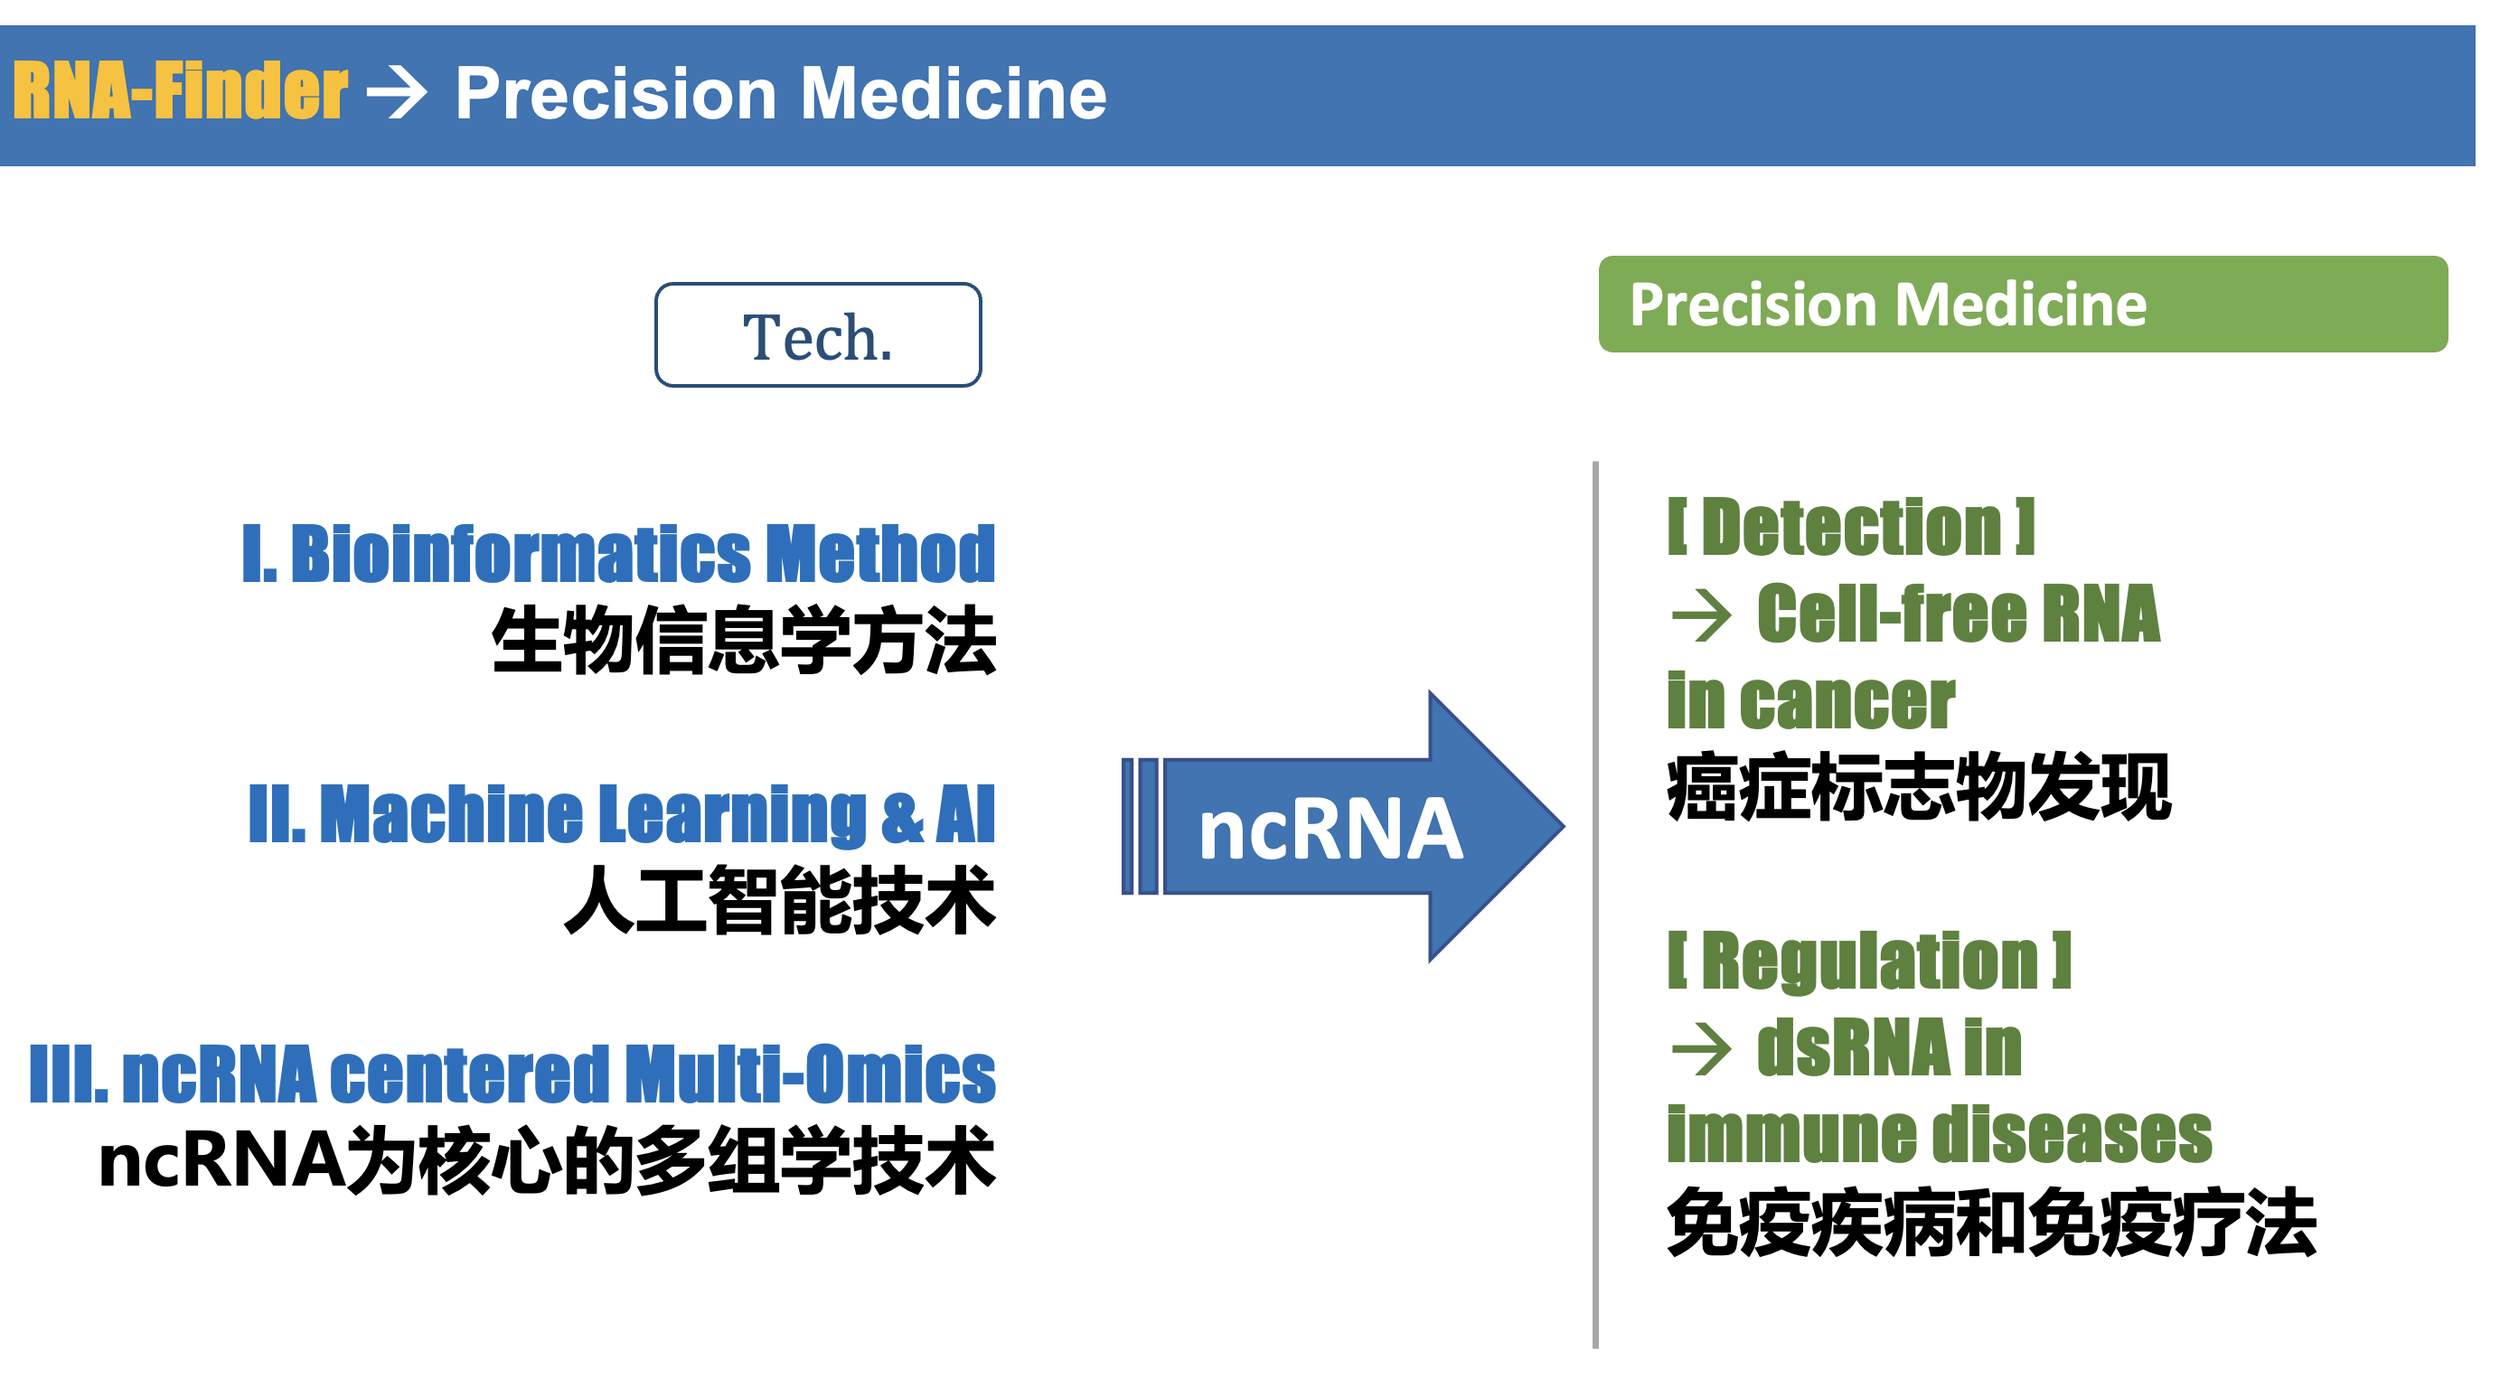
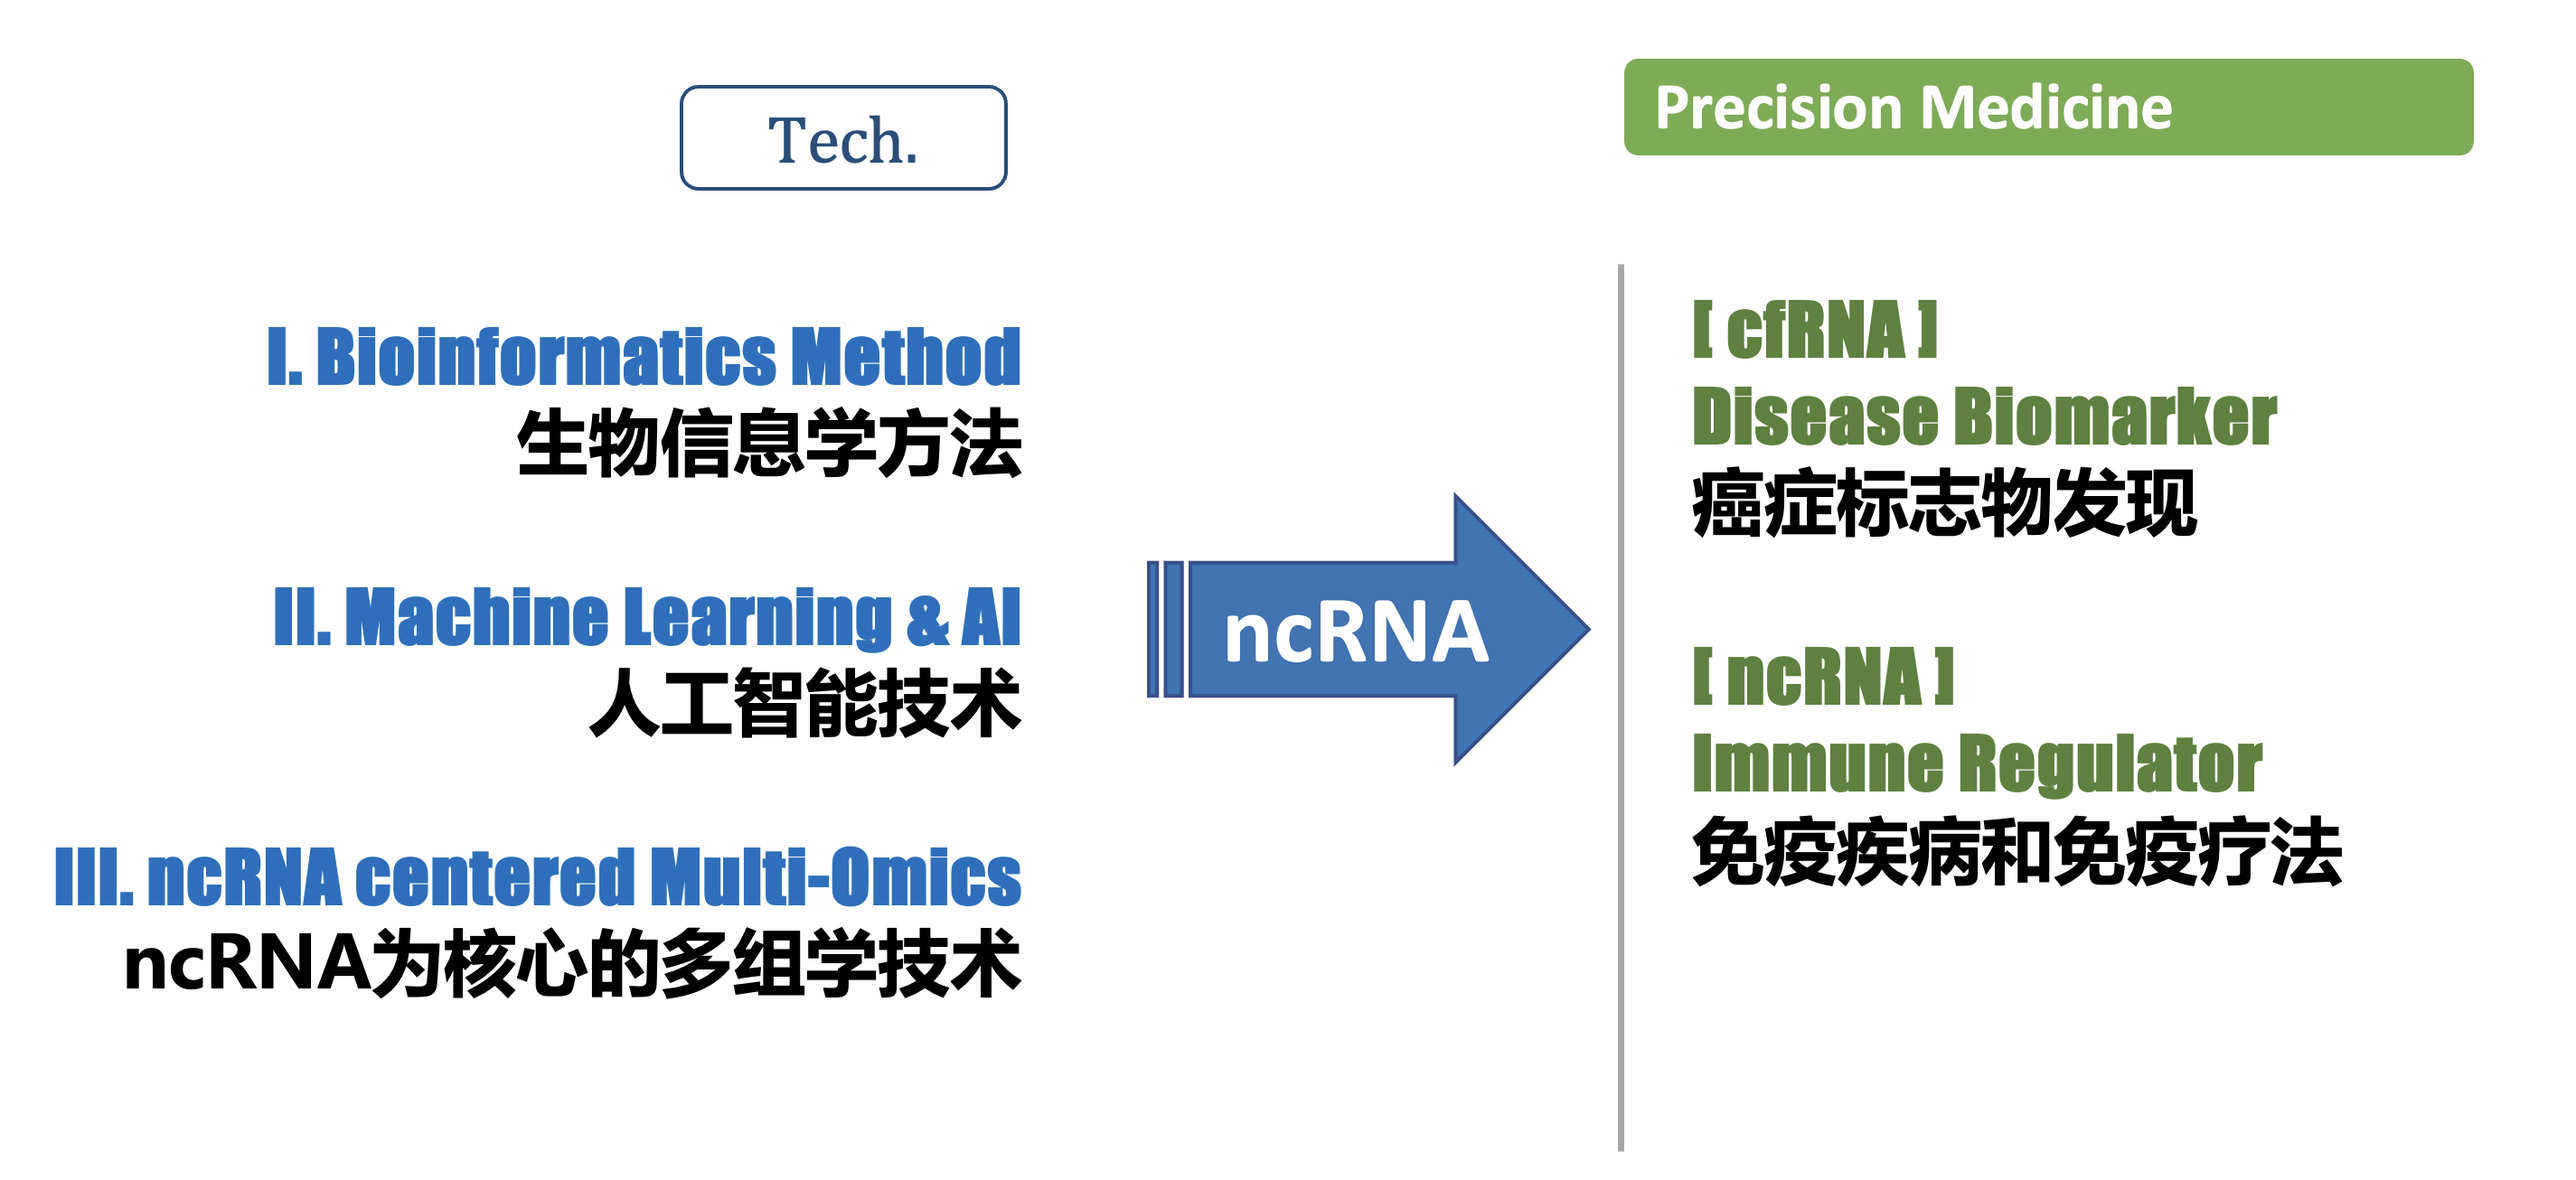
update home/projects

diff --git a/home/index.html b/home/index.html
@@ -157,8 +157,8 @@
                             
                             <ul class="list-unstyled text-right">
                                 <li><b style="color:#0093A8;">Precision Medicine</b></li>
-                                <li> * Cell-free RNA for disease diagnosis</li>
-                                <li> * Noncoding RNA in immune system</li>
+                                <li> * Cell-free RNA as disease biomarker</li>
+                                <li> * Noncoding RNA as immune regulator</li>
                                 <li> * Multi-modal data integration</li>                   
 
                             </ul>

diff --git a/projects/index.md b/projects/index.md
@@ -66,7 +66,7 @@ We apply the above methods to precision medicine, focusing on two types of disea
 
 
 
-#### A1. [cfRNA] Cell-free RNA (cfRNA) Study for Disease Diagnosis {#cfRNA}
+#### A1. [cfRNA] Cell-free RNA (cfRNA) as Disease Biomarker {#cfRNA}
 
 ***cell-free RNAs (cfRNAs).*** The cfRNA content in clinical plasma samples is very low and fragmented. Therefore, it is necessary to solve the problems of low signal-to-noise ratio and high cost of sequencing data. We apply technologies such as TSO, early barcoding, UMI, and CRISPR-Cas9 to develop novel cfRNA-seq technologies that reduce the cost of high-throughput sequencing, and improve the signal-to-noise ratio of sequencing data.
 
@@ -99,7 +99,7 @@ We apply the above methods to precision medicine, focusing on two types of disea
 </div>
 
 
-#### A2. [ncRNA] Noncoding RNA Study in Immune System {#ncRNA}
+#### A2. [ncRNA] Noncoding RNA as Immune Regulator {#ncRNA}
 
 ***Discoverying novel noncoding RNAs.*** With the advancement of sequencing technology, especially the development and maturity of sequencing technology at the single-cell and single-molecule level, we have the ability to discover new noncoding RNAs from more species, more tissues, and more cell types. For example, we can discover and study new noncoding RNAs under different environments and conditions from the metatranscriptome of diverse microbial communities. These studies will not only expand our understanding of the diversity of life, but may also reveal new biological mechanisms cross-species.
 
